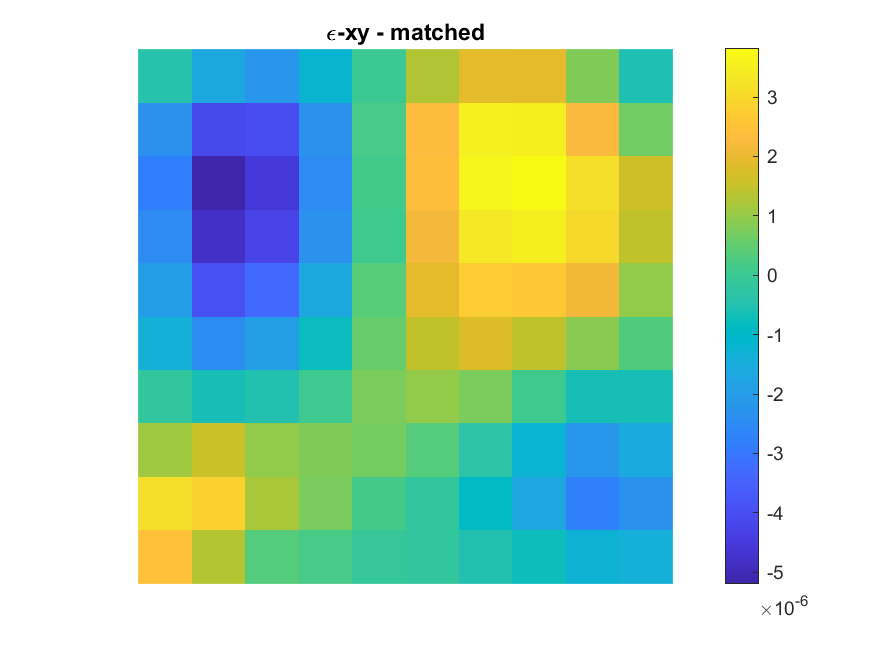
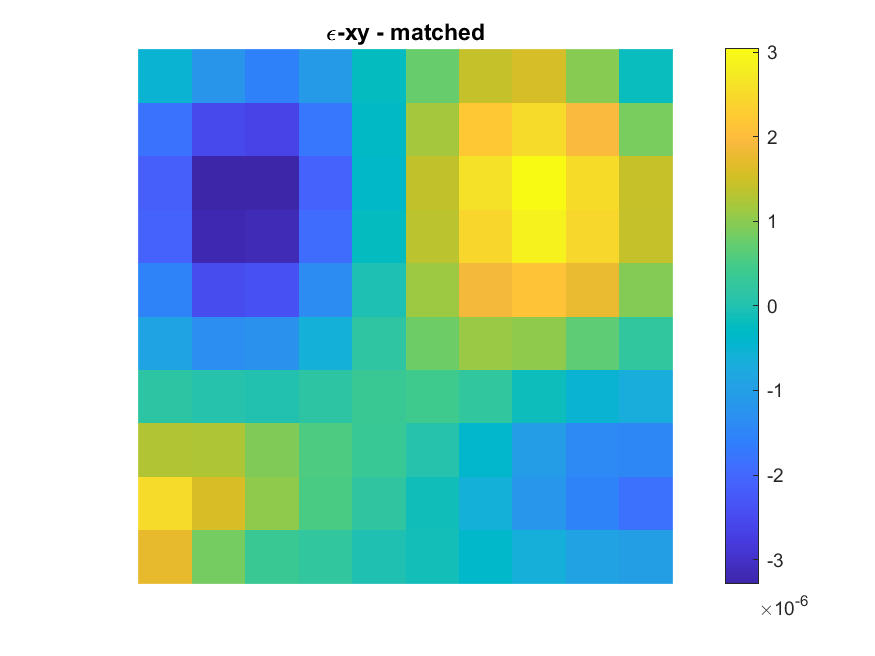
- added Gaussian and moving average filters

diff --git a/main.m b/main.m
@@ -44,11 +44,14 @@ epsA = xlsread('Strain.xlsx');                                              % st
 % **********************
 itMax = 30;                                                                 % maximum number of iterations
 tol   = 1e-9;                                                               % tolerance
+filter_type = 'Gaussian';                                                   % 'None','Gaussian' or 'MovingAverage'
+filter_size = 3;                                                            % 3, 5, or any higher odd number. 
 
 %% Set up the physical model (based on the user input and characteristics of the supplied data):
 % *************************************************************************
 nels_x = 10;                                                                % number of elements in the x direction
 nels_y = nels_x;                                                            % number of elements in the y direction
+% **************
 nels = nels_x * nels_y;                                                     % total number of elements
 l_x = nels_x * element_size;                                                % domain size in x-direction
 l_y = nels_y * element_size;                                                % domain size in y-direction
@@ -109,6 +112,12 @@ while error > tol && itnum < itMax && delta_error < 0                       % wh
     itnum = itnum+1;                                                        % iteration counter
     fprintf('\n%s%8i\n','   iteration number     ',itnum);                  % print iteration number
     [sig,epsH,~] = LEfe(mesh,itnum);                                        % finite element solver
+    for i=1:3                                                               % Gaussian smoothing of experimental noise
+        if (strcmp(filter_type,'None') ~= 1)
+            sig(:,i) = smoothVector(sig(:,i),nels_y,nels_x,filter_type,filter_size);
+            epsH(:,i) = smoothVector(epsH(:,i),nels_y,nels_x,filter_type,filter_size);
+        end
+    end
     [E,v] = updateElasticProp(sig,epsA);                                    % solve for elastic properties
     mesh.E = E;                                                             % update Young's modulus
     mesh.v = v;                                                             % update Poisson's ratio
@@ -180,13 +189,13 @@ imagesc(matrix);colorbar; colormap; axis equal; axis off;                   % pl
 title( plot_titles{1} );                                                    % add plot title
 saveas(gcf,strcat(output_dir,plot_titles{1},'.png'));                       % save images as png file
 
-% % Matched strains:
-% plot_titles = {'epsilon-xx - matched', 'epsilon-yy - matched', 'epsilon-xy - matched'};
-% for i=1:size(plot_titles,2)
-%     fig_num = fig_num +1;
-%     figure(fig_num);                                                        % figure number
-%     matrix = vector2matrix(epsH(:,i),nels_y,nels_x);                        % convert vector to matrix for plotting
-%     imagesc(matrix);colorbar; colormap; axis equal; axis off;               % plot color map 
-%     title( strcat('\',plot_titles{i}) );                                    % add plot title
-%     saveas(gcf,strcat(output_dir,plot_titles{i},'.png'));                   % save images as png file
-% end
+% Matched strains:
+plot_titles = {'epsilon-xx - matched', 'epsilon-yy - matched', 'epsilon-xy - matched'};
+for i=1:size(plot_titles,2)
+    fig_num = fig_num +1;
+    figure(fig_num);                                                        % figure number
+    matrix = vector2matrix(epsH(:,i),nels_y,nels_x);                        % convert vector to matrix for plotting
+    imagesc(matrix);colorbar; colormap; axis equal; axis off;               % plot color map 
+    title( strcat('\',plot_titles{i}) );                                    % add plot title
+    saveas(gcf,strcat(output_dir,plot_titles{i},'.png'));                   % save images as png file
+end

diff --git a/functions/smoothVector.m b/functions/smoothVector.m
@@ -1,0 +1,96 @@
+function vectSmooth = smoothVector(vect, n_rows, n_cols, filterType, filter_size)
+%SMOOTHVECT applies Guassian filter to smooth vector data
+%
+% Usage: smoothVector(vect,n_rows,n_cols, filter_size)
+% vect - input vector
+% n_rows - number of rows in the grid of elements
+% n_cols - number of columns in the grid of elements
+% filterType = 'Gaussian' or 'MovingAverage'
+% filter_size = 3, 5, or any higher odd number. 
+
+    
+    matrix = vector2matrix(vect,n_rows,n_cols); % first vector to process
+
+    % Moving average:
+    % https://uk.mathworks.com/matlabcentral/answers/358411-i-need-a-code-that-produce-a-moving-average-matrix-with-a-5-5-window
+    % K = 1/9*ones(3); % K = 1/16*ones(4); K = 1/25*ones(5); % moving average
+    % Guassian blur 3 x 3:
+    %--------------
+
+    if strcmp(filterType,'MovingAverage')
+        K = ones(filter_size) ./ (filter_size)^2;
+        % For example:
+        %K = 1/9 * ...
+        %    [1 1 1;
+        %    1 1 1;
+        %    1 1 1]; 
+        matrixSmoothTMP = conv2(matrix,K,'same');   % Apply the filter
+
+    elseif strcmp(filterType,'Gaussian')
+        sigma = 1.0; %such that the filter is spread across the entire matrix
+        % Filter can be also generated using fspecial and applied using conv2
+        %K = fspecial('gaussian', filter_size, sigma);
+        %matrixSmoothTMP = conv2(matrix,K,'same');   % Apply the filter
+    
+        % Gaussian blur 3 x 3 (an example of the weights):
+        %K = 1/16 * ...
+        %    [1 2 1;
+        %    2 4 2;
+        %    1 2 1];
+        % Apply the filter using built-in function:
+        matrixSmoothTMP = imgaussfilt(matrix,sigma,'FilterSize',filter_size);
+    end
+
+    % Remove smoothed results from edge_width pixels around the frame
+    % These edge results do not seem right after the smoothing.
+    % Check if the filter size is odd:
+    if rem(filter_size,2)  % reminder after division by 2 is 1 = true
+        edge_width = (filter_size - 1)/2;
+        % fprintf('%i cell(s) around the edge are beyond the reach of the smoothing algorithm.\n', edge_width);
+    else
+        fprintf('Only odd numbers are allowed as filter_size and %i is not an odd number.\n\n', filter_size);
+    end
+
+    %Keep the original edges of the images:
+    matrixSmooth = keepOriginalEdges(matrixSmoothTMP,matrix,edge_width);
+    % matrixSmooth = matrixSmoothTMP;
+
+    vectSmooth = matrix2vector(matrixSmooth,n_rows,n_cols);
+
+
+    % FUNCTIONS 
+    % =========
+    function matrix = vector2matrix(vector,n_rows,n_cols)  
+        matrix = zeros(n_rows, n_cols); % Pre-allocate the matrix
+        for k = 1:1:n_rows
+            matr_row = n_rows+1-k;
+            vect_indx = 1 + (k-1)*n_cols;
+            vect_indx_end = vect_indx + (n_cols -1);
+            matrix(matr_row,:) = vector(vect_indx:vect_indx_end);
+        end
+    end
+
+    function matrixOUT = keepOriginalEdges(matrixSmooth, matrixOrig,edge_width)
+        matrixOUT = matrixSmooth;
+        % but keep the first 'edge_width' rows, last two rows, first two columns and
+        % last two columns
+        
+        edge_subt = edge_width-1;
+        matrixOUT(1:edge_width,:) = matrixOrig(1:edge_width,:);
+        matrixOUT(end-edge_subt:end,:) = matrixOrig(end-edge_subt:end,:);
+        matrixOUT(:,1:edge_width) = matrixOrig(:,1:edge_width);
+        matrixOUT(:,end-edge_subt:end) = matrixOrig(:,end-edge_subt:end);
+    end
+
+    function vector = matrix2vector(matrix,n_rows,n_cols)  
+        vector = zeros(n_rows*n_cols,1);
+        for k = 1:1:n_rows
+            matr_row = n_rows+1-k;
+            vect_indx = 1 + (k-1)*n_cols;
+            vect_indx_end = vect_indx + (n_cols -1);
+    
+            vector(vect_indx:vect_indx_end) = matrix(matr_row,:);
+        end
+    end
+
+end

diff --git a/functions/matrix2vector.m b/functions/matrix2vector.m
@@ -1,0 +1,12 @@
+function vector = matrix2vector(matrix,n_rows,n_cols)
+% matrix2vector(matrix,n_rows,n_cols)
+% convertes matrix into specially ordered vector
+    vector = zeros(n_rows*n_cols,1);
+    for i = 1:1:n_rows
+        matr_row = n_rows+1-i;
+        vect_indx = 1 + (i-1)*n_cols;
+        vect_indx_end = vect_indx + (n_cols -1);
+    
+        vector(vect_indx:vect_indx_end) = matrix(matr_row,:);
+    end
+end
